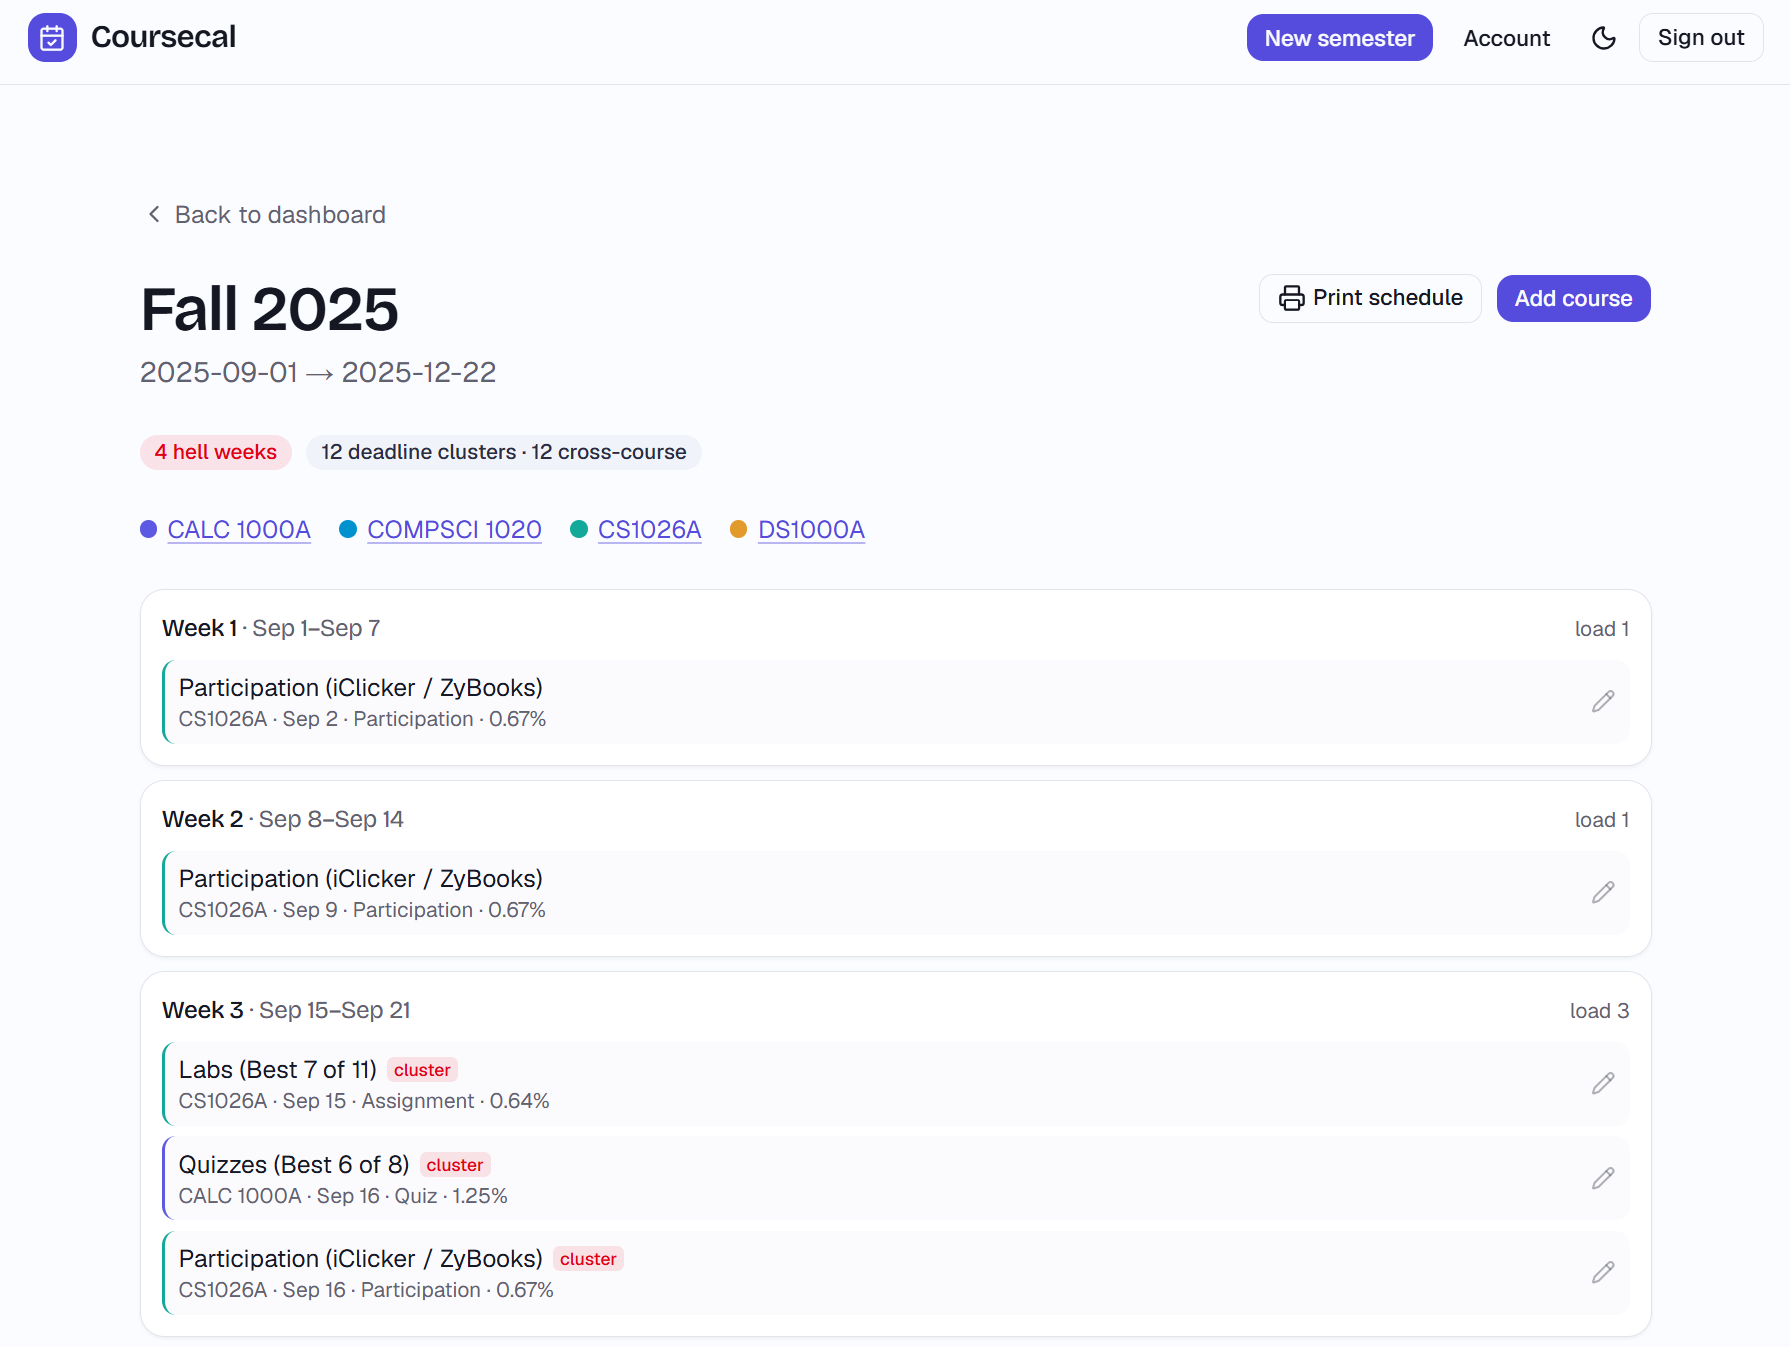
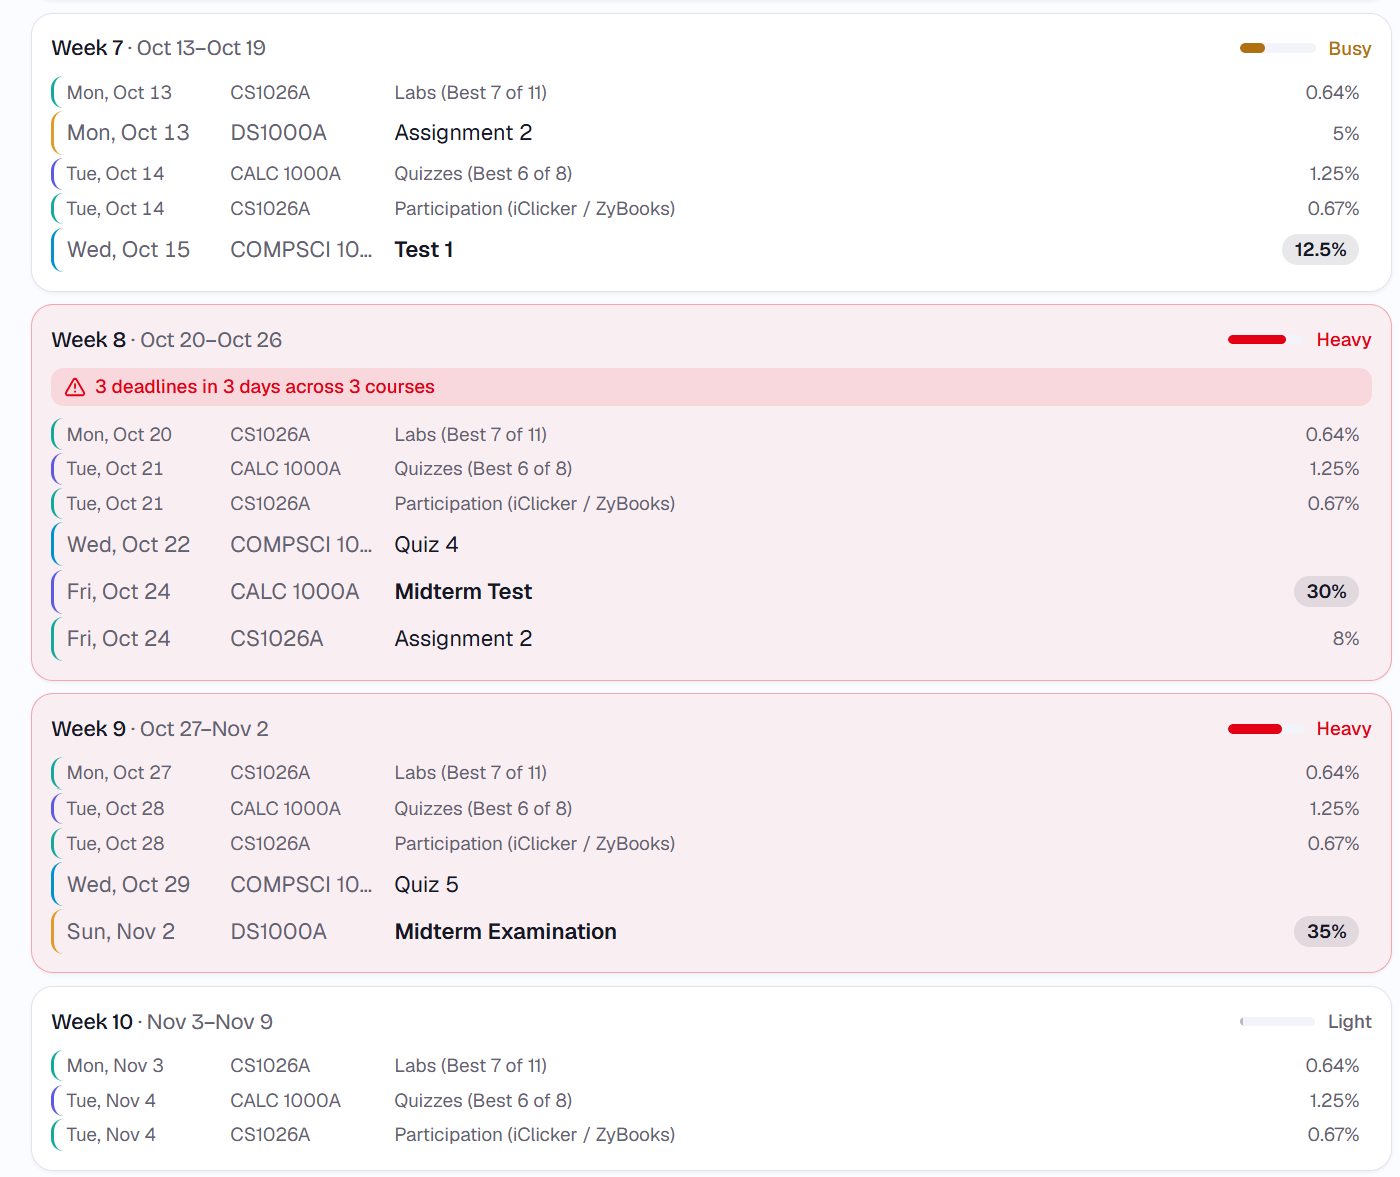
swap in the updated timeline and course screenshots and point the README at them

diff --git a/README.md b/README.md
@@ -2,7 +2,7 @@
 
 [![evals](https://github.com/BandonC/CourseCal/actions/workflows/evals.yml/badge.svg)](https://github.com/BandonC/CourseCal/actions/workflows/evals.yml)
 
-![Semester timeline with hell weeks and deadline clusters flagged](docs/screenshots/timeline.png)
+![Semester timeline: heavy weeks, a deadline-cluster banner, and high-weight exams emphasized](docs/screenshots/timeline.png)
 
 Turns course syllabi into calendar events and a navigable semester plan. Upload or paste your syllabi at the start of a term; Coursecal extracts every graded deliverable — assignments, quizzes, exams, projects, presentations, participation — and exports them to Google Calendar with reminders. A per-semester timeline flags hell weeks and clustered deadlines so you can see the whole term at a glance and plan around the crunch.
 
@@ -36,9 +36,9 @@ Every stated calendar deadline lands on the exact day. v2's prompt change stoppe
 
 Edits made later sync back to the calendar by stored event ID. Nothing is persisted until you export.
 
-| Set up a semester | Review flagged items | Spot the crunch |
+| Set up a semester | Review flagged items | See what's next |
 | --- | --- | --- |
-| ![New semester setup: name, dates, and syllabus upload or paste](docs/screenshots/new-semester.png) | ![Course page with confidence badges and a flagged deliverable](docs/screenshots/course-review.png) | ![Two consecutive hell weeks with clustered deadlines](docs/screenshots/hell-week.png) |
+| ![New semester setup: name, dates, and syllabus upload or paste](docs/screenshots/new-semester.png) | ![Course page: a compact deliverable list with flagged items and a weights total](docs/screenshots/course-review.png) | ![Dashboard showing each semester's next deadline](docs/screenshots/dashboard.png) |
 
 ## Repository layout
 
